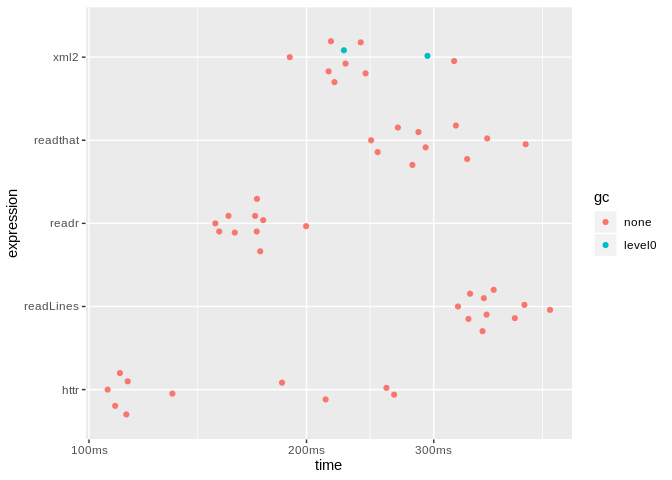
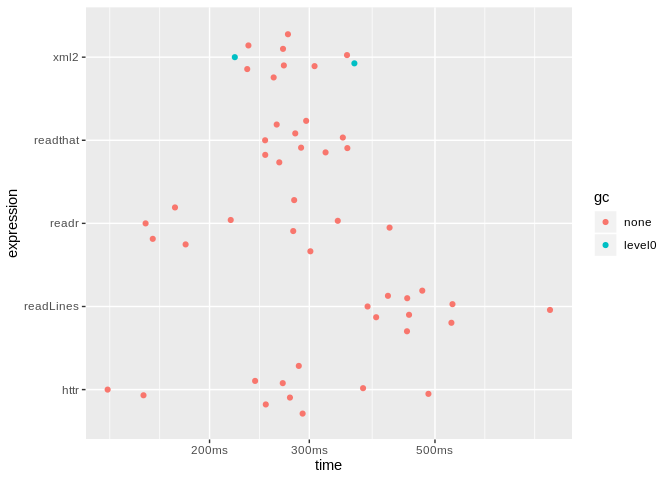
Update README

diff --git a/README.md b/README.md
@@ -39,10 +39,10 @@ bm_file
 #> # A tibble: 4 x 6
 #>   expression      min   median `itr/sec` mem_alloc `gc/sec`
 #>   <bch:expr> <bch:tm> <bch:tm>     <dbl> <bch:byt>    <dbl>
-#> 1 readtext    799.6µs    828µs     1201.    5.38MB    10.3 
-#> 2 readr       159.2µs    164µs     5955.    2.69MB    10.4 
-#> 3 readthat     32.4µs     33µs    29557.   21.69KB     0   
-#> 4 readLines   131.4µs    133µs     7398.   10.54KB     2.01
+#> 1 readtext    799.6µs  829.9µs     1200.    5.38MB    10.3 
+#> 2 readr       159.1µs  163.7µs     5989.    2.69MB    10.4 
+#> 3 readthat     32.4µs   33.1µs    29476.    21.7KB     0   
+#> 4 readLines   131.3µs  133.1µs     7377.   10.54KB     2.01
 ggplot2::autoplot(bm_file)
 #> Loading required namespace: tidyr
 ```
@@ -66,11 +66,11 @@ bm_html
 #> # A tibble: 5 x 6
 #>   expression      min   median `itr/sec` mem_alloc `gc/sec`
 #>   <bch:expr> <bch:tm> <bch:tm>     <dbl> <bch:byt>    <dbl>
-#> 1 httr          106ms    122ms      6.24    2.81MB     0   
-#> 2 xml2          190ms    223ms      4.29    1.88MB     1.07
-#> 3 readthat      246ms    289ms      3.29  642.95KB     0   
-#> 4 readLines     324ms    353ms      2.75  643.75KB     0   
-#> 5 readr         150ms    170ms      5.97  840.13KB     0
+#> 1 httr          132ms    273ms      3.62    2.81MB    0    
+#> 2 xml2          233ms    270ms      3.64    1.89MB    0.910
+#> 3 readthat      251ms    287ms      3.43  645.28KB    0    
+#> 4 readLines     380ms    448ms      2.05  646.43KB    0    
+#> 5 readr         154ms    249ms      3.99  843.72KB    0
 ggplot2::autoplot(bm_html)
 ```
 
